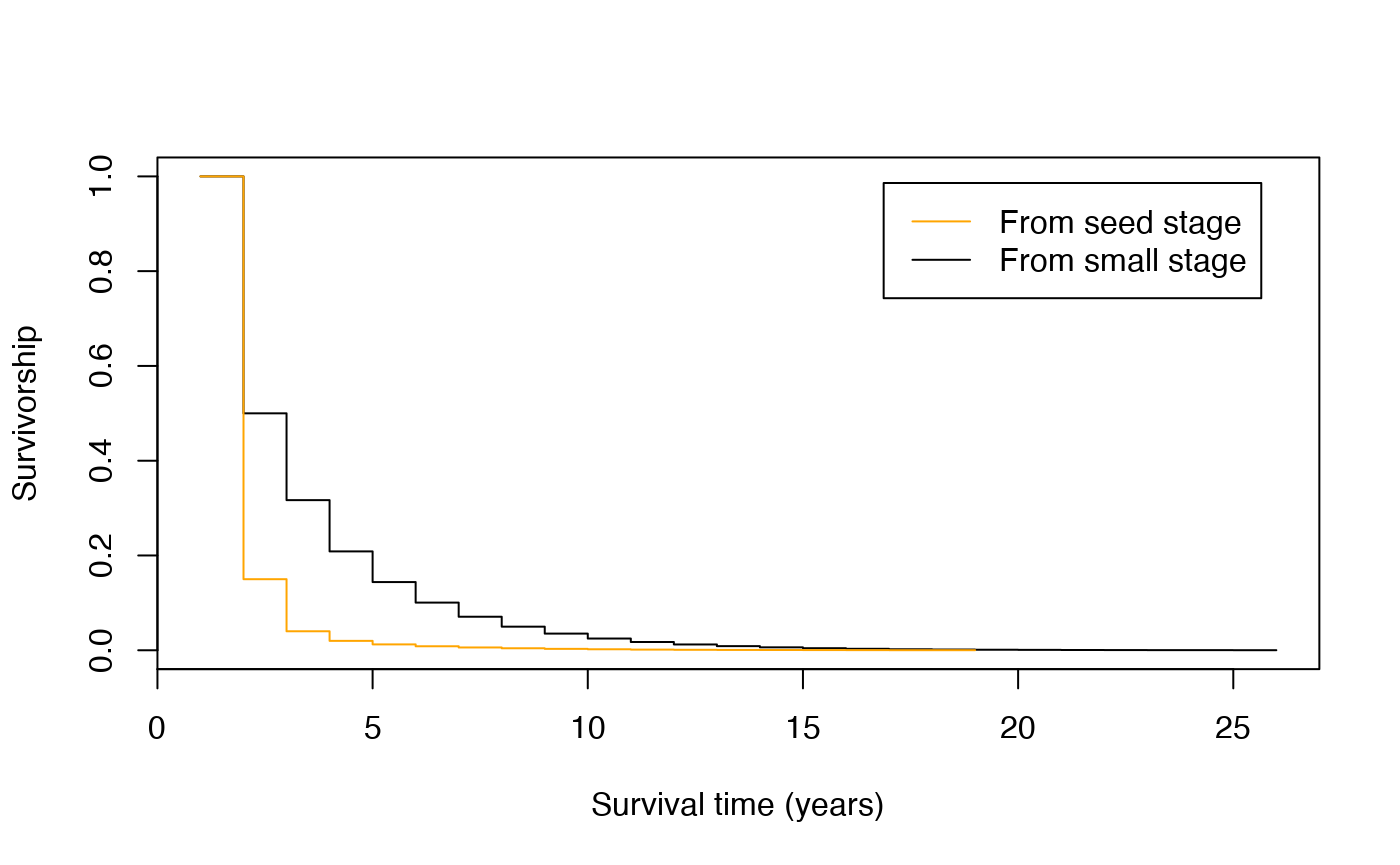
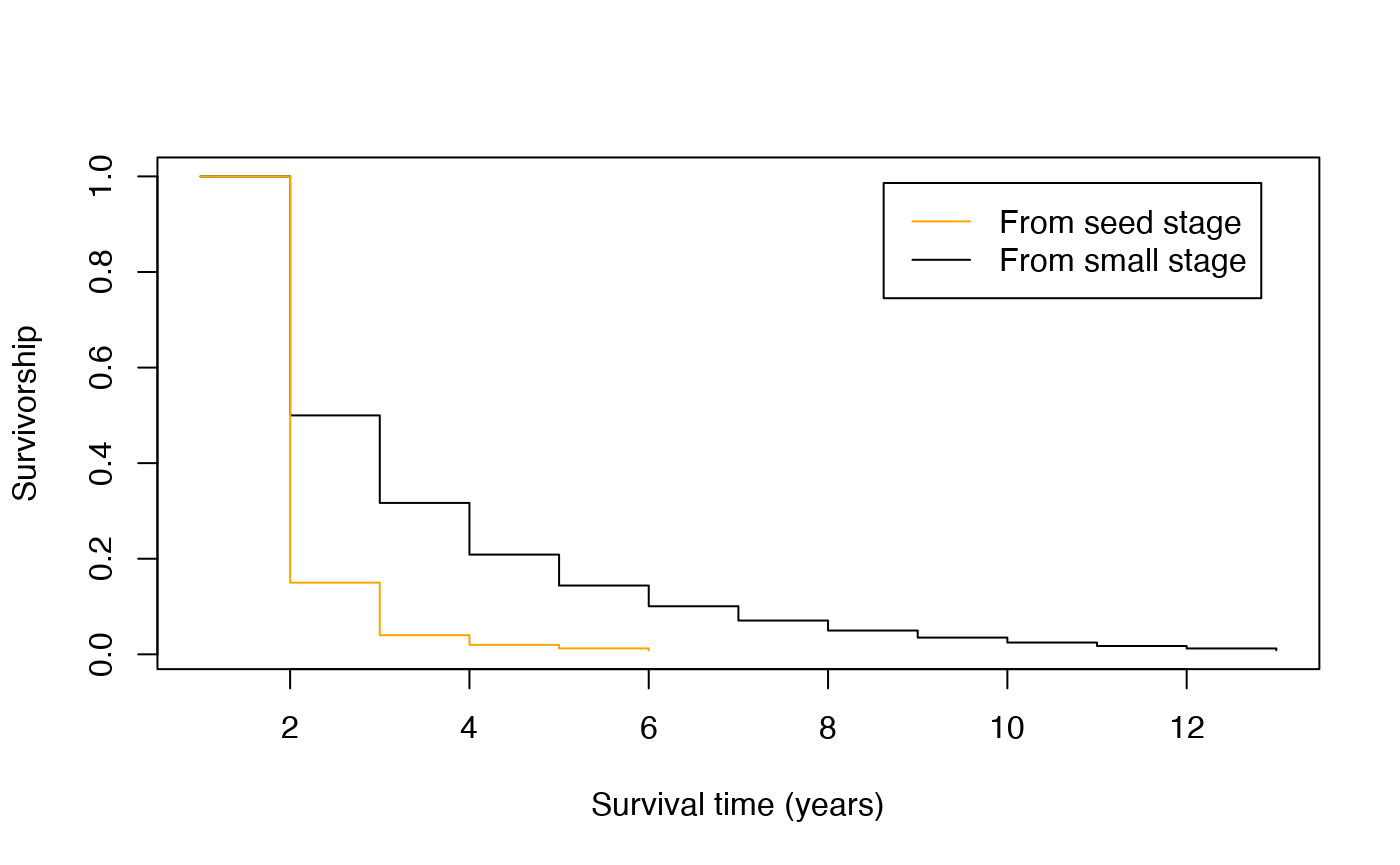
Re-build site, codemeta.json and README

diff --git a/docs/reference/age_from_stage.html b/docs/reference/age_from_stage.html
@@ -151,11 +151,11 @@ Caswell (2001).</p>
 
     <pre class="usage"><span class='fu'>mpm_to_mx</span><span class='op'>(</span><span class='va'>matU</span>, <span class='va'>matR</span>, start <span class='op'>=</span> <span class='fl'>1L</span>, xmax <span class='op'>=</span> <span class='fl'>1000</span>, lx_crit <span class='op'>=</span> <span class='fl'>0.01</span>, tol <span class='op'>=</span> <span class='fl'>1e-04</span><span class='op'>)</span>
 
-<span class='fu'>mpm_to_lx</span><span class='op'>(</span><span class='va'>matU</span>, start <span class='op'>=</span> <span class='fl'>1L</span>, xmax <span class='op'>=</span> <span class='fl'>1e+05</span>, lx_crit <span class='op'>=</span> <span class='fl'>1e-04</span>, tol <span class='op'>=</span> <span class='fl'>1e-04</span><span class='op'>)</span>
+<span class='fu'>mpm_to_lx</span><span class='op'>(</span><span class='va'>matU</span>, start <span class='op'>=</span> <span class='fl'>1L</span>, xmax <span class='op'>=</span> <span class='fl'>1000</span>, lx_crit <span class='op'>=</span> <span class='fl'>0.01</span>, tol <span class='op'>=</span> <span class='fl'>1e-04</span><span class='op'>)</span>
 
-<span class='fu'>mpm_to_px</span><span class='op'>(</span><span class='va'>matU</span>, start <span class='op'>=</span> <span class='fl'>1L</span>, xmax <span class='op'>=</span> <span class='fl'>1e+05</span>, lx_crit <span class='op'>=</span> <span class='fl'>1e-04</span>, tol <span class='op'>=</span> <span class='fl'>1e-04</span><span class='op'>)</span>
+<span class='fu'>mpm_to_px</span><span class='op'>(</span><span class='va'>matU</span>, start <span class='op'>=</span> <span class='fl'>1L</span>, xmax <span class='op'>=</span> <span class='fl'>1000</span>, lx_crit <span class='op'>=</span> <span class='fl'>0.01</span>, tol <span class='op'>=</span> <span class='fl'>1e-04</span><span class='op'>)</span>
 
-<span class='fu'>mpm_to_hx</span><span class='op'>(</span><span class='va'>matU</span>, start <span class='op'>=</span> <span class='fl'>1L</span>, xmax <span class='op'>=</span> <span class='fl'>1e+05</span>, lx_crit <span class='op'>=</span> <span class='fl'>1e-04</span>, tol <span class='op'>=</span> <span class='fl'>1e-04</span><span class='op'>)</span></pre>
+<span class='fu'>mpm_to_hx</span><span class='op'>(</span><span class='va'>matU</span>, start <span class='op'>=</span> <span class='fl'>1L</span>, xmax <span class='op'>=</span> <span class='fl'>1000</span>, lx_crit <span class='op'>=</span> <span class='fl'>0.01</span>, tol <span class='op'>=</span> <span class='fl'>1e-04</span><span class='op'>)</span></pre>
 
     <h2 class="hasAnchor" id="arguments"><a class="anchor" href="#arguments"></a>Arguments</h2>
     <table class="ref-arguments">
@@ -258,35 +258,21 @@ Modeling Population Processes. Wiley. ISBN: 9781557864512</p>
 
 <span class='co'># age-specific survivorship</span>
 <span class='fu'>mpm_to_lx</span><span class='op'>(</span><span class='va'>mpm1</span><span class='op'>$</span><span class='va'>matU</span><span class='op'>)</span>
-</div><div class='output co'>#&gt;  [1] 1.000000e+00 1.500000e-01 4.000000e-02 1.984000e-02 1.241465e-02
-#&gt;  [6] 8.437150e-03 5.872905e-03 4.122125e-03 2.900967e-03 2.043401e-03
-#&gt; [11] 1.439762e-03 1.014540e-03 7.149255e-04 5.037985e-04 3.550213e-04
-#&gt; [16] 2.501799e-04 1.762993e-04 1.242363e-04 8.754812e-05</div><div class='input'><span class='fu'>mpm_to_lx</span><span class='op'>(</span><span class='va'>mpm1</span><span class='op'>$</span><span class='va'>matU</span>, start <span class='op'>=</span> <span class='fl'>2</span><span class='op'>)</span>       <span class='co'># starting from stage 2</span>
-</div><div class='output co'>#&gt;  [1] 1.0000000000 0.5000000000 0.3168000000 0.2086130000 0.1439137100
-#&gt;  [6] 0.1005837911 0.0706967003 0.0497750832 0.0350660912 0.0247084304
-#&gt; [11] 0.0174112681 0.0122694301 0.0086461194 0.0060928288 0.0042935549
-#&gt; [16] 0.0030256254 0.0021321283 0.0015024897 0.0010587897 0.0007461186
-#&gt; [21] 0.0005257824 0.0003705137 0.0002610973 0.0001839927 0.0001296578
-#&gt; [26] 0.0000913686</div><div class='input'><span class='fu'>mpm_to_lx</span><span class='op'>(</span><span class='va'>mpm1</span><span class='op'>$</span><span class='va'>matU</span>, start <span class='op'>=</span> <span class='st'>"small"</span><span class='op'>)</span> <span class='co'># equivalent using named life stages</span>
-</div><div class='output co'>#&gt;  [1] 1.0000000000 0.5000000000 0.3168000000 0.2086130000 0.1439137100
-#&gt;  [6] 0.1005837911 0.0706967003 0.0497750832 0.0350660912 0.0247084304
-#&gt; [11] 0.0174112681 0.0122694301 0.0086461194 0.0060928288 0.0042935549
-#&gt; [16] 0.0030256254 0.0021321283 0.0015024897 0.0010587897 0.0007461186
-#&gt; [21] 0.0005257824 0.0003705137 0.0002610973 0.0001839927 0.0001296578
-#&gt; [26] 0.0000913686</div><div class='input'><span class='fu'>mpm_to_lx</span><span class='op'>(</span><span class='va'>mpm1</span><span class='op'>$</span><span class='va'>matU</span>, xmax <span class='op'>=</span> <span class='fl'>10</span><span class='op'>)</span>       <span class='co'># to a maximum age of 10</span>
-</div><div class='output co'>#&gt;  [1] 1.000000000 0.150000000 0.040000000 0.019840000 0.012414650 0.008437150
-#&gt;  [7] 0.005872905 0.004122125 0.002900967 0.002043401 0.001439762</div><div class='input'><span class='fu'>mpm_to_lx</span><span class='op'>(</span><span class='va'>mpm1</span><span class='op'>$</span><span class='va'>matU</span>, lx_crit <span class='op'>=</span> <span class='fl'>0.05</span><span class='op'>)</span>  <span class='co'># to a minimum lx of 0.05</span>
+</div><div class='output co'>#&gt; [1] 1.00000000 0.15000000 0.04000000 0.01984000 0.01241465 0.00843715</div><div class='input'><span class='fu'>mpm_to_lx</span><span class='op'>(</span><span class='va'>mpm1</span><span class='op'>$</span><span class='va'>matU</span>, start <span class='op'>=</span> <span class='fl'>2</span><span class='op'>)</span>       <span class='co'># starting from stage 2</span>
+</div><div class='output co'>#&gt;  [1] 1.000000000 0.500000000 0.316800000 0.208613000 0.143913710 0.100583791
+#&gt;  [7] 0.070696700 0.049775083 0.035066091 0.024708430 0.017411268 0.012269430
+#&gt; [13] 0.008646119</div><div class='input'><span class='fu'>mpm_to_lx</span><span class='op'>(</span><span class='va'>mpm1</span><span class='op'>$</span><span class='va'>matU</span>, start <span class='op'>=</span> <span class='st'>"small"</span><span class='op'>)</span> <span class='co'># equivalent using named life stages</span>
+</div><div class='output co'>#&gt;  [1] 1.000000000 0.500000000 0.316800000 0.208613000 0.143913710 0.100583791
+#&gt;  [7] 0.070696700 0.049775083 0.035066091 0.024708430 0.017411268 0.012269430
+#&gt; [13] 0.008646119</div><div class='input'><span class='fu'>mpm_to_lx</span><span class='op'>(</span><span class='va'>mpm1</span><span class='op'>$</span><span class='va'>matU</span>, xmax <span class='op'>=</span> <span class='fl'>10</span><span class='op'>)</span>       <span class='co'># to a maximum age of 10</span>
+</div><div class='output co'>#&gt; [1] 1.00000000 0.15000000 0.04000000 0.01984000 0.01241465 0.00843715</div><div class='input'><span class='fu'>mpm_to_lx</span><span class='op'>(</span><span class='va'>mpm1</span><span class='op'>$</span><span class='va'>matU</span>, lx_crit <span class='op'>=</span> <span class='fl'>0.05</span><span class='op'>)</span>  <span class='co'># to a minimum lx of 0.05</span>
 </div><div class='output co'>#&gt; [1] 1.00 0.15 0.04</div><div class='input'>
 <span class='co'># age-specific survival probability</span>
 <span class='fu'>mpm_to_px</span><span class='op'>(</span><span class='va'>mpm1</span><span class='op'>$</span><span class='va'>matU</span><span class='op'>)</span>
-</div><div class='output co'>#&gt;  [1] 0.1500000 0.2666667 0.4960000 0.6257384 0.6796124 0.6960768 0.7018887
-#&gt;  [8] 0.7037551 0.7043863 0.7045908 0.7046580 0.7046797 0.7046868 0.7046890
-#&gt; [15] 0.7046898 0.7046900 0.7046901 0.7046901        NA</div><div class='input'>
+</div><div class='output co'>#&gt; [1] 0.1500000 0.2666667 0.4960000 0.6257384 0.6796124        NA</div><div class='input'>
 <span class='co'># age-specific mortality hazard</span>
 <span class='fu'>mpm_to_hx</span><span class='op'>(</span><span class='va'>mpm1</span><span class='op'>$</span><span class='va'>matU</span><span class='op'>)</span>
-</div><div class='output co'>#&gt;  [1] 1.8971200 1.3217558 0.7011794 0.4688229 0.3862326 0.3622953 0.3539804
-#&gt;  [8] 0.3513249 0.3504283 0.3501381 0.3500427 0.3500119 0.3500019 0.3499987
-#&gt; [15] 0.3499976 0.3499973 0.3499972 0.3499971        NA</div><div class='input'>
+</div><div class='output co'>#&gt; [1] 1.8971200 1.3217558 0.7011794 0.4688229 0.3862326        NA</div><div class='input'>
 <span class='co'># age-specific fecundity</span>
 <span class='fu'>mpm_to_mx</span><span class='op'>(</span><span class='va'>mpm1</span><span class='op'>$</span><span class='va'>matU</span>, <span class='va'>mpm1</span><span class='op'>$</span><span class='va'>matF</span><span class='op'>)</span>
 </div><div class='output co'>#&gt; [1]  0.00000  0.00000  9.54125 19.49277 24.83256 26.79977</div><div class='input'>
@@ -296,20 +282,13 @@ Modeling Population Processes. Wiley. ISBN: 9781557864512</p>
 <span class='va'>n1</span> <span class='op'>&lt;-</span> <span class='fu'><a href='repro_maturity.html'>mature_distrib</a></span><span class='op'>(</span><span class='va'>mpm1</span><span class='op'>$</span><span class='va'>matU</span>, start <span class='op'>=</span> <span class='fl'>2</span>, repro_stages <span class='op'>=</span> <span class='va'>repstages</span><span class='op'>)</span>
 
 <span class='fu'>mpm_to_lx</span><span class='op'>(</span><span class='va'>mpm1</span><span class='op'>$</span><span class='va'>matU</span>, start <span class='op'>=</span> <span class='va'>n1</span><span class='op'>)</span>
-</div><div class='output co'>#&gt;  [1] 1.000000e+00 6.757895e-01 4.489395e-01 3.128425e-01 2.192478e-01
-#&gt;  [6] 1.542806e-01 1.086618e-01 7.656074e-02 5.394868e-02 3.801646e-02
-#&gt; [11] 2.678968e-02 1.887839e-02 1.330341e-02 9.374777e-03 6.606313e-03
-#&gt; [16] 4.655403e-03 3.280617e-03 2.311818e-03 1.629115e-03 1.148022e-03
-#&gt; [21] 8.089994e-04 5.700939e-04 4.017395e-04 2.831019e-04 1.994991e-04
-#&gt; [26] 1.405850e-04 9.906889e-05</div><div class='input'><span class='fu'>mpm_to_px</span><span class='op'>(</span><span class='va'>mpm1</span><span class='op'>$</span><span class='va'>matU</span>, start <span class='op'>=</span> <span class='va'>n1</span><span class='op'>)</span>
+</div><div class='output co'>#&gt;  [1] 1.000000000 0.675789474 0.448939474 0.312842500 0.219247752 0.154280646
+#&gt;  [7] 0.108661787 0.076560740 0.053948683 0.038016464 0.026789679 0.018878389
+#&gt; [13] 0.013303407 0.009374777</div><div class='input'><span class='fu'>mpm_to_px</span><span class='op'>(</span><span class='va'>mpm1</span><span class='op'>$</span><span class='va'>matU</span>, start <span class='op'>=</span> <span class='va'>n1</span><span class='op'>)</span>
 </div><div class='output co'>#&gt;  [1] 0.6757895 0.6643185 0.6968478 0.7008247 0.7036818 0.7043125 0.7045783
-#&gt;  [8] 0.7046521 0.7046783 0.7046862 0.7046889 0.7046897 0.7046900 0.7046901
-#&gt; [15] 0.7046901 0.7046901 0.7046901 0.7046901 0.7046901 0.7046901 0.7046901
-#&gt; [22] 0.7046901 0.7046901 0.7046901 0.7046901 0.7046901        NA</div><div class='input'><span class='fu'>mpm_to_hx</span><span class='op'>(</span><span class='va'>mpm1</span><span class='op'>$</span><span class='va'>matU</span>, start <span class='op'>=</span> <span class='va'>n1</span><span class='op'>)</span>
+#&gt;  [8] 0.7046521 0.7046783 0.7046862 0.7046889 0.7046897 0.7046900        NA</div><div class='input'><span class='fu'>mpm_to_hx</span><span class='op'>(</span><span class='va'>mpm1</span><span class='op'>$</span><span class='va'>matU</span>, start <span class='op'>=</span> <span class='va'>n1</span><span class='op'>)</span>
 </div><div class='output co'>#&gt;  [1] 0.3918737 0.4089935 0.3611882 0.3554975 0.3514291 0.3505331 0.3501558
-#&gt;  [8] 0.3500511 0.3500139 0.3500026 0.3499989 0.3499977 0.3499973 0.3499972
-#&gt; [15] 0.3499971 0.3499971 0.3499971 0.3499971 0.3499971 0.3499971 0.3499971
-#&gt; [22] 0.3499971 0.3499971 0.3499971 0.3499971 0.3499971        NA</div><div class='input'><span class='fu'>mpm_to_mx</span><span class='op'>(</span><span class='va'>mpm1</span><span class='op'>$</span><span class='va'>matU</span>, <span class='va'>mpm1</span><span class='op'>$</span><span class='va'>matF</span>, start <span class='op'>=</span> <span class='va'>n1</span><span class='op'>)</span>
+#&gt;  [8] 0.3500511 0.3500139 0.3500026 0.3499989 0.3499977 0.3499973        NA</div><div class='input'><span class='fu'>mpm_to_mx</span><span class='op'>(</span><span class='va'>mpm1</span><span class='op'>$</span><span class='va'>matU</span>, <span class='va'>mpm1</span><span class='op'>$</span><span class='va'>matF</span>, start <span class='op'>=</span> <span class='va'>n1</span><span class='op'>)</span>
 </div><div class='output co'>#&gt;  [1] 20.08684 23.58049 26.70449 27.41101 27.72566 27.81222 27.84348 27.85293
 #&gt;  [9] 27.85610 27.85709 27.85742 27.85752 27.85756 27.85757</div><div class='input'>
 </div></pre>

diff --git a/docs/articles/a01_GettingStarted.html b/docs/articles/a01_GettingStarted.html
@@ -118,8 +118,8 @@
 <h2 class="hasAnchor">
 <a href="#r-1--basic-anatomy-of-life-cycles-and-mpms" class="anchor"></a>R.1. Basic anatomy of life cycles and MPMs</h2>
 <p>Matrix population models are a mathematical tool that integrate population dynamics and population structure to model the dynamics of populations with different ‘types’ of individuals, whether due to age, life stage, sex, genotype or any other attribute that causes differences in demographic rates. Consider a plant species with three different types of individuals: <strong>seedlings</strong> that have newly recruited into the population from seeds, non-reproductive <strong>rosettes</strong>, and <strong>flowering</strong> adults that make seeds and also reproduce asexually by vegetative budding. We can represent the biology of this life cycle graphically (Fig. 1) where each life stage is a node and the life stages are connected with arrows showing the paths (and probabilities) that individuals move between stages.</p>
-<div id="htmlwidget-174f26bd983d5a54cd5e" style="width:576px;height:192px;" class="grViz html-widget"></div>
-<script type="application/json" data-for="htmlwidget-174f26bd983d5a54cd5e">{"x":{"diagram":"\ndigraph {\n  {\n    graph[overlap=false];\n    rank=same;\n    node [shape= egg , fontsize= 12 ]; \"seedling\"; \"rosette\"; \"flowering\"  \n  } ordering=out\n  x [style=invis]\n  x -> { \"seedling\"; \"rosette\"; \"flowering\" } [style=invis] \"seedling\" -> \"rosette\"[minlen=3,fontsize=10,color=PaleGreen4,xlabel=\" 0.5\"]\n\"rosette\" -> \"rosette\"[minlen=0,fontsize=10,color=PaleGreen4,xlabel=\" 0.3\"]\n\"rosette\" -> \"flowering\"[minlen=3,fontsize=10,color=PaleGreen4,xlabel=\" 0.4\"]\n\"flowering\" -> \"seedling\"[minlen=-6,fontsize=10,color=Goldenrod1,xlabel=\" 3.2\"]\n\"flowering\" -> \"rosette\"[minlen=-3,fontsize=10,color=MediumOrchid4,xlabel=\" 0.8\"]\n\"flowering\" -> \"flowering\"[minlen=0,fontsize=10,color=PaleGreen4,xlabel=\" 0.9\"]\n labelloc=\"t\";\n  label=\"  \"\n}","config":{"engine":"dot","options":null}},"evals":[],"jsHooks":[]}</script><p><strong>Figure 1.</strong> Life cycle diagram for a hypothetical plant with three life stages (nodes). Arrows are coloured by conventional groupings of demographic processes: growth and survival (green), sexual reproduction via seeds (gold) and asexual reproduction via budding (purple). The numbers along each arrow indicate the transition probability–how many individuals will there be in the stage at the arrow’s end at the next time step for each individual at the arrow’s start?</p>
+<div id="htmlwidget-7816299f0002b3dfd95b" style="width:576px;height:192px;" class="grViz html-widget"></div>
+<script type="application/json" data-for="htmlwidget-7816299f0002b3dfd95b">{"x":{"diagram":"\ndigraph {\n  {\n    graph[overlap=false];\n    rank=same;\n    node [shape= egg , fontsize= 12 ]; \"seedling\"; \"rosette\"; \"flowering\"  \n  } ordering=out\n  x [style=invis]\n  x -> { \"seedling\"; \"rosette\"; \"flowering\" } [style=invis] \"seedling\" -> \"rosette\"[minlen=3,fontsize=10,color=PaleGreen4,xlabel=\" 0.5\"]\n\"rosette\" -> \"rosette\"[minlen=0,fontsize=10,color=PaleGreen4,xlabel=\" 0.3\"]\n\"rosette\" -> \"flowering\"[minlen=3,fontsize=10,color=PaleGreen4,xlabel=\" 0.4\"]\n\"flowering\" -> \"seedling\"[minlen=-6,fontsize=10,color=Goldenrod1,xlabel=\" 3.2\"]\n\"flowering\" -> \"rosette\"[minlen=-3,fontsize=10,color=MediumOrchid4,xlabel=\" 0.8\"]\n\"flowering\" -> \"flowering\"[minlen=0,fontsize=10,color=PaleGreen4,xlabel=\" 0.9\"]\n labelloc=\"t\";\n  label=\"  \"\n}","config":{"engine":"dot","options":null}},"evals":[],"jsHooks":[]}</script><p><strong>Figure 1.</strong> Life cycle diagram for a hypothetical plant with three life stages (nodes). Arrows are coloured by conventional groupings of demographic processes: growth and survival (green), sexual reproduction via seeds (gold) and asexual reproduction via budding (purple). The numbers along each arrow indicate the transition probability–how many individuals will there be in the stage at the arrow’s end at the next time step for each individual at the arrow’s start?</p>
 <p>The <strong>transition</strong> or <strong>projection matrix</strong> (Fig. 2; called <strong>A</strong> in matrix notation) for this life cycle is a square matrix where the rows and columns correspond to the life stages (nodes) and the elements correspond to transition probabilities (arrows). By convention, the columns reflect the current life stage (i.e., the arrow’s start) and the rows reflect the arrow’s end.</p>
 <p><img src="a01_GettingStarted_files/figure-html/unnamed-chunk-2-1.png" width="384" style="display: block; margin: auto;"><strong>Figure 2.</strong> Transition (projection) matrix corresponding to the life cycle in Fig. 1.</p>
 <p>For basic MPM projection and equilibrium analyses, this single matrix is all that is needed. However, more advanced analyses like many of those in <code>Rage</code> use decompositions of the <strong>A</strong> matrix into its components of growth and survival (<strong>U</strong>) and reproduction (<strong>R</strong>). Reproduction can be further decomposed into offspring produced sexually (<strong>F</strong>) and asexually/clonally (<strong>C</strong>; Fig. 3). The submatrices combine additively to create the transition matrix,</p>
@@ -323,20 +323,13 @@
 <span class="co">#&gt; 6 0.2261137</span>
 <span class="va">lx</span> <span class="op">&lt;-</span> <span class="fu"><a href="../reference/age_from_stage.html">mpm_to_lx</a></span><span class="op">(</span>matU <span class="op">=</span> <span class="va">mpm1</span><span class="op">$</span><span class="va">matU</span><span class="op">)</span>  <span class="co"># survivorship to start of each age class</span>
 <span class="va">lx</span>
-<span class="co">#&gt;  [1] 1.000000e+00 1.500000e-01 4.000000e-02 1.984000e-02 1.241465e-02</span>
-<span class="co">#&gt;  [6] 8.437150e-03 5.872905e-03 4.122125e-03 2.900967e-03 2.043401e-03</span>
-<span class="co">#&gt; [11] 1.439762e-03 1.014540e-03 7.149255e-04 5.037985e-04 3.550213e-04</span>
-<span class="co">#&gt; [16] 2.501799e-04 1.762993e-04 1.242363e-04 8.754812e-05</span></code></pre></div>
+<span class="co">#&gt; [1] 1.00000000 0.15000000 0.04000000 0.01984000 0.01241465 0.00843715</span></code></pre></div>
 <p><code>Rage</code> also supports translation between the different ways of expressing age-specific mortality/survival, whether proportional survivorship (<code>lx</code>), survival probability (<code>px</code>) or mortality hazard (<code>hx</code>), following an <code>x_to_y</code> function name pattern.</p>
 <div class="sourceCode" id="cb7"><pre class="downlit sourceCode r">
 <code class="sourceCode R"><span class="fu"><a href="../reference/lifetable_convert.html">lx_to_px</a></span><span class="op">(</span>lx <span class="op">=</span> <span class="va">lx</span><span class="op">)</span>  <span class="co"># survivorship to survival probability</span>
-<span class="co">#&gt;  [1] 0.1500000 0.2666667 0.4960000 0.6257384 0.6796124 0.6960768 0.7018887</span>
-<span class="co">#&gt;  [8] 0.7037551 0.7043863 0.7045908 0.7046580 0.7046797 0.7046868 0.7046890</span>
-<span class="co">#&gt; [15] 0.7046898 0.7046900 0.7046901 0.7046901        NA</span>
+<span class="co">#&gt; [1] 0.1500000 0.2666667 0.4960000 0.6257384 0.6796124        NA</span>
 <span class="fu"><a href="../reference/lifetable_convert.html">lx_to_hx</a></span><span class="op">(</span>lx <span class="op">=</span> <span class="va">lx</span><span class="op">)</span>  <span class="co"># survivorship to mortality hazard</span>
-<span class="co">#&gt;  [1] 1.8971200 1.3217558 0.7011794 0.4688229 0.3862326 0.3622953 0.3539804</span>
-<span class="co">#&gt;  [8] 0.3513249 0.3504283 0.3501381 0.3500427 0.3500119 0.3500019 0.3499987</span>
-<span class="co">#&gt; [15] 0.3499976 0.3499973 0.3499972 0.3499971        NA</span></code></pre></div>
+<span class="co">#&gt; [1] 1.8971200 1.3217558 0.7011794 0.4688229 0.3862326        NA</span></code></pre></div>
 <p>When individuals can remain in the last life stage class, age-specific trajectories of mortality and fertility can appear to plateau as a cohort asymptotically approaches its stable stage distribution (SSD). For these MPMs, we can choose a quasi-stationary distribution (QSD) of stages that is within an arbitrarily close threshold of the SSD. Subsetting age-specific demographic trajectories to time points before a cohort reaches the QSD will minimise these plateau artefacts. In the example MPM, <code>mpm1</code>, a cohort of germinated individuals quickly converges towards the SSD:</p>
 <div class="sourceCode" id="cb8"><pre class="downlit sourceCode r">
 <code class="sourceCode R"><span class="co"># project a germinated cohort through the U matrix</span>
@@ -435,7 +428,7 @@
 <code class="sourceCode R"><span class="co"># derive post-germination survivorship trajectory from U matrix</span>
 <span class="va">lx</span> <span class="op">&lt;-</span> <span class="fu"><a href="../reference/age_from_stage.html">mpm_to_lx</a></span><span class="op">(</span>matU <span class="op">=</span> <span class="va">mpm1</span><span class="op">$</span><span class="va">matU</span>, start <span class="op">=</span> <span class="st">"small"</span><span class="op">)</span>
 <span class="fu"><a href="../reference/entropy_k.html">entropy_k</a></span><span class="op">(</span>lx <span class="op">=</span> <span class="va">lx</span><span class="op">)</span>       <span class="co"># calculate Keyfitz' entropy</span>
-<span class="co">#&gt; [1] 0.948235</span></code></pre></div>
+<span class="co">#&gt; [1] 0.9077186</span></code></pre></div>
 </div>
 <div id="maniptransform" class="section level2">
 <h2 class="hasAnchor">

diff --git a/docs/articles/a03_LifeHistoryTraits.html b/docs/articles/a03_LifeHistoryTraits.html
@@ -240,9 +240,9 @@
 <p>Keyfitz’ entropy describes the shape of the age-specific survivorship curve (Demetrius 1978). Values greater than 1 correspond to survival curves type I (high survival in early part of life and decreasing over time), a value of 1 to survival curve type II (constant survival), and values less than 1 to survival curve type III (low survival early and increasing over time) (Salguero-Gómez et al. 2016).</p>
 <div class="sourceCode" id="cb16"><pre class="downlit sourceCode r">
 <code class="sourceCode R"><span class="fu"><a href="../reference/entropy_d.html">entropy_d</a></span><span class="op">(</span><span class="va">lx</span>, <span class="va">mx</span><span class="op">)</span>   <span class="co"># Demetrius' entropy</span>
-<span class="co">#&gt; [1] -1.381131</span>
+<span class="co">#&gt; [1] -1.426434</span>
 <span class="fu"><a href="../reference/entropy_k.html">entropy_k</a></span><span class="op">(</span><span class="va">lx</span><span class="op">)</span>       <span class="co"># Keyfitz' entropy</span>
-<span class="co">#&gt; [1] 0.948235</span></code></pre></div>
+<span class="co">#&gt; [1] 0.9077186</span></code></pre></div>
 <p>It is important to note that both of these entropy measures may produce unexpected results if only partial survivorship and fecundity age-based trajectories are used in the calculations. Indeed, both metrics of demographic entropy are sensitive to the length of the those trajectory vectors. For example, the Demetrius’ entropy calculated above has a negative value due to being calculated from age-specific survivorships and fecundities starting from the “small” stage, and therefore it does not include the full life cycle.</p>
 <p>A more robust way to describe these trajectories is using the area under the curve method.</p>
 </div>
@@ -252,7 +252,7 @@
 <p>A life course can be described in terms of its pace (timing of events) and its shape (the distribution of events, either for an individual or for a population). There are several candidate metrics for the pace and shape of mortality, and of fertility. A good measure of the pace of mortality is life expectancy (the average age of death) and a good measure of the shape of mortality are the life-table entropy measures mentioned above, which describe both the survivorship curve and the mortality trajectory (see Baudisch 2011). Measures describing the pace and shape of fertility have also been developed (Baudisch &amp; Stott 2019). In addition to the entropy measures described above, the <code>shape_</code> functions are also useful metrics.</p>
 <div class="sourceCode" id="cb17"><pre class="downlit sourceCode r">
 <code class="sourceCode R"><span class="fu"><a href="../reference/shape_surv.html">shape_surv</a></span><span class="op">(</span><span class="va">lx</span><span class="op">)</span>      <span class="co"># shape of survival/mortality trajectory</span>
-<span class="co">#&gt; [1] -0.02687175</span>
+<span class="co">#&gt; [1] -0.04681254</span>
 <span class="fu"><a href="../reference/shape_rep.html">shape_rep</a></span><span class="op">(</span><span class="va">mx</span><span class="op">)</span>       <span class="co"># shape of fecundity trajectory</span>
 <span class="co">#&gt; [1] -0.02999578</span></code></pre></div>
 <div id="references" class="section level2">

diff --git a/docs/index.html b/docs/index.html
@@ -212,13 +212,13 @@
 
 <span class="co"># then calculate life history traits</span>
 <span class="fu"><a href="reference/entropy_k.html">entropy_k</a></span><span class="op">(</span><span class="va">lx</span><span class="op">)</span>       <span class="co"># Keyfitz' entropy</span>
-<span class="co">#&gt; [1] 0.948235</span>
+<span class="co">#&gt; [1] 0.9077186</span>
 <span class="fu"><a href="reference/entropy_d.html">entropy_d</a></span><span class="op">(</span><span class="va">lx</span>, <span class="va">mx</span><span class="op">)</span>   <span class="co"># Demetrius' entropy</span>
-<span class="co">#&gt; [1] -1.381131</span>
+<span class="co">#&gt; [1] -1.426434</span>
 <span class="fu"><a href="reference/shape_surv.html">shape_surv</a></span><span class="op">(</span><span class="va">lx</span><span class="op">)</span>      <span class="co"># shape of survival/mortality trajectory</span>
-<span class="co">#&gt; [1] -0.02687175</span>
+<span class="co">#&gt; [1] -0.04681254</span>
 <span class="fu"><a href="reference/shape_rep.html">shape_rep</a></span><span class="op">(</span><span class="va">lx</span><span class="op">)</span>       <span class="co"># shape of fecundity trajectory</span>
-<span class="co">#&gt; [1] 0.4029063</span></code></pre></div>
+<span class="co">#&gt; [1] 0.3097147</span></code></pre></div>
 </div>
 <div id="life-tables-and-the-quasi-stationary-distribution" class="section level3">
 <h3 class="hasAnchor">

diff --git a/docs/articles/a04_AgeFromStage.html b/docs/articles/a04_AgeFromStage.html
@@ -254,6 +254,8 @@
                    comp_collapse <span class="op">=</span> <span class="va">comp_collapse</span><span class="op">)</span>
 
 <span class="va">lx_array</span> <span class="op">&lt;-</span> <span class="fu"><a href="https://rdrr.io/r/base/do.call.html">do.call</a></span><span class="op">(</span><span class="va">cbind</span>, <span class="va">lx_list</span><span class="op">)</span>
+<span class="co">#&gt; Warning in (function (..., deparse.level = 1) : number of rows of result is not</span>
+<span class="co">#&gt; a multiple of vector length (arg 3)</span>
 
 <span class="fu"><a href="https://rdrr.io/r/graphics/matplot.html">matplot</a></span><span class="op">(</span><span class="va">lx_array</span>, type <span class="op">=</span> <span class="st">"l"</span>, lty <span class="op">=</span> <span class="fl">1</span>, log <span class="op">=</span> <span class="st">"y"</span>, ylim <span class="op">=</span> <span class="fu"><a href="https://rdrr.io/r/base/c.html">c</a></span><span class="op">(</span><span class="fl">0.0001</span>, <span class="fl">1</span><span class="op">)</span>,
         lwd <span class="op">=</span> <span class="fl">1.5</span>, xlab <span class="op">=</span> <span class="st">"Age (years)"</span>, ylab <span class="op">=</span> <span class="st">"lx"</span><span class="op">)</span></code></pre></div>

diff --git a/docs/reference/entropy_k.html b/docs/reference/entropy_k.html
@@ -199,10 +199,10 @@ which is relatively robust to these issues.</p>
 
 <span class='co'># calculate Keyfitz' entropy</span>
 <span class='fu'>entropy_k</span><span class='op'>(</span><span class='va'>lx</span><span class='op'>)</span>
-</div><div class='output co'>#&gt; [1] 0.948235</div><div class='input'>
+</div><div class='output co'>#&gt; [1] 0.9077186</div><div class='input'>
 <span class='co'># use trapezoid approximation for definite integral</span>
 <span class='fu'>entropy_k</span><span class='op'>(</span><span class='va'>lx</span>, trapeze <span class='op'>=</span> <span class='cn'>TRUE</span><span class='op'>)</span>
-</div><div class='output co'>#&gt; [1] 1.184059</div><div class='input'>
+</div><div class='output co'>#&gt; [1] 1.128087</div><div class='input'>
 </div></pre>
   </div>
   <div class="col-md-3 hidden-xs hidden-sm" id="pkgdown-sidebar">

diff --git a/docs/news/index.html b/docs/news/index.html
@@ -140,7 +140,9 @@
 <a href="#rage-development-version" class="anchor"></a>Rage (development version)<small> Unreleased </small>
 </h1>
 <ul>
-<li>Improved documentation of <code>mpm_to_table</code>.</li>
+<li>Improved documentation of <code>mpm_to_table</code> and related functions.</li>
+<li>Standardised the <code>lx_crit</code> and <code>xmax</code> argument values across age-from-stage functions.</li>
+<li>Minor edits to documentation for stylistic consistency.</li>
 </ul>
 </div>
     <div id="rage-110" class="section level1">

diff --git a/docs/reference/entropy_d.html b/docs/reference/entropy_d.html
@@ -201,7 +201,7 @@ monotonically-declining values in the interval [0,1]).</p></td>
 
 <span class='co'># calculate Demetrius' entropy</span>
 <span class='fu'>entropy_d</span><span class='op'>(</span><span class='va'>lx</span>, <span class='va'>mx</span><span class='op'>)</span>
-</div><div class='output co'>#&gt; [1] -1.381131</div><div class='input'>
+</div><div class='output co'>#&gt; [1] -1.426434</div><div class='input'>
 </div></pre>
   </div>
   <div class="col-md-3 hidden-xs hidden-sm" id="pkgdown-sidebar">

diff --git a/README.md b/README.md
@@ -124,13 +124,13 @@ mx <- mpm_to_mx(mpm1$matU, mpm1$matF, start = 2)
 
 # then calculate life history traits
 entropy_k(lx)       # Keyfitz' entropy
-#> [1] 0.948235
+#> [1] 0.9077186
 entropy_d(lx, mx)   # Demetrius' entropy
-#> [1] -1.381131
+#> [1] -1.426434
 shape_surv(lx)      # shape of survival/mortality trajectory
-#> [1] -0.02687175
+#> [1] -0.04681254
 shape_rep(lx)       # shape of fecundity trajectory
-#> [1] 0.4029063
+#> [1] 0.3097147
 ```
 
 ### Life tables and the quasi-stationary distribution
